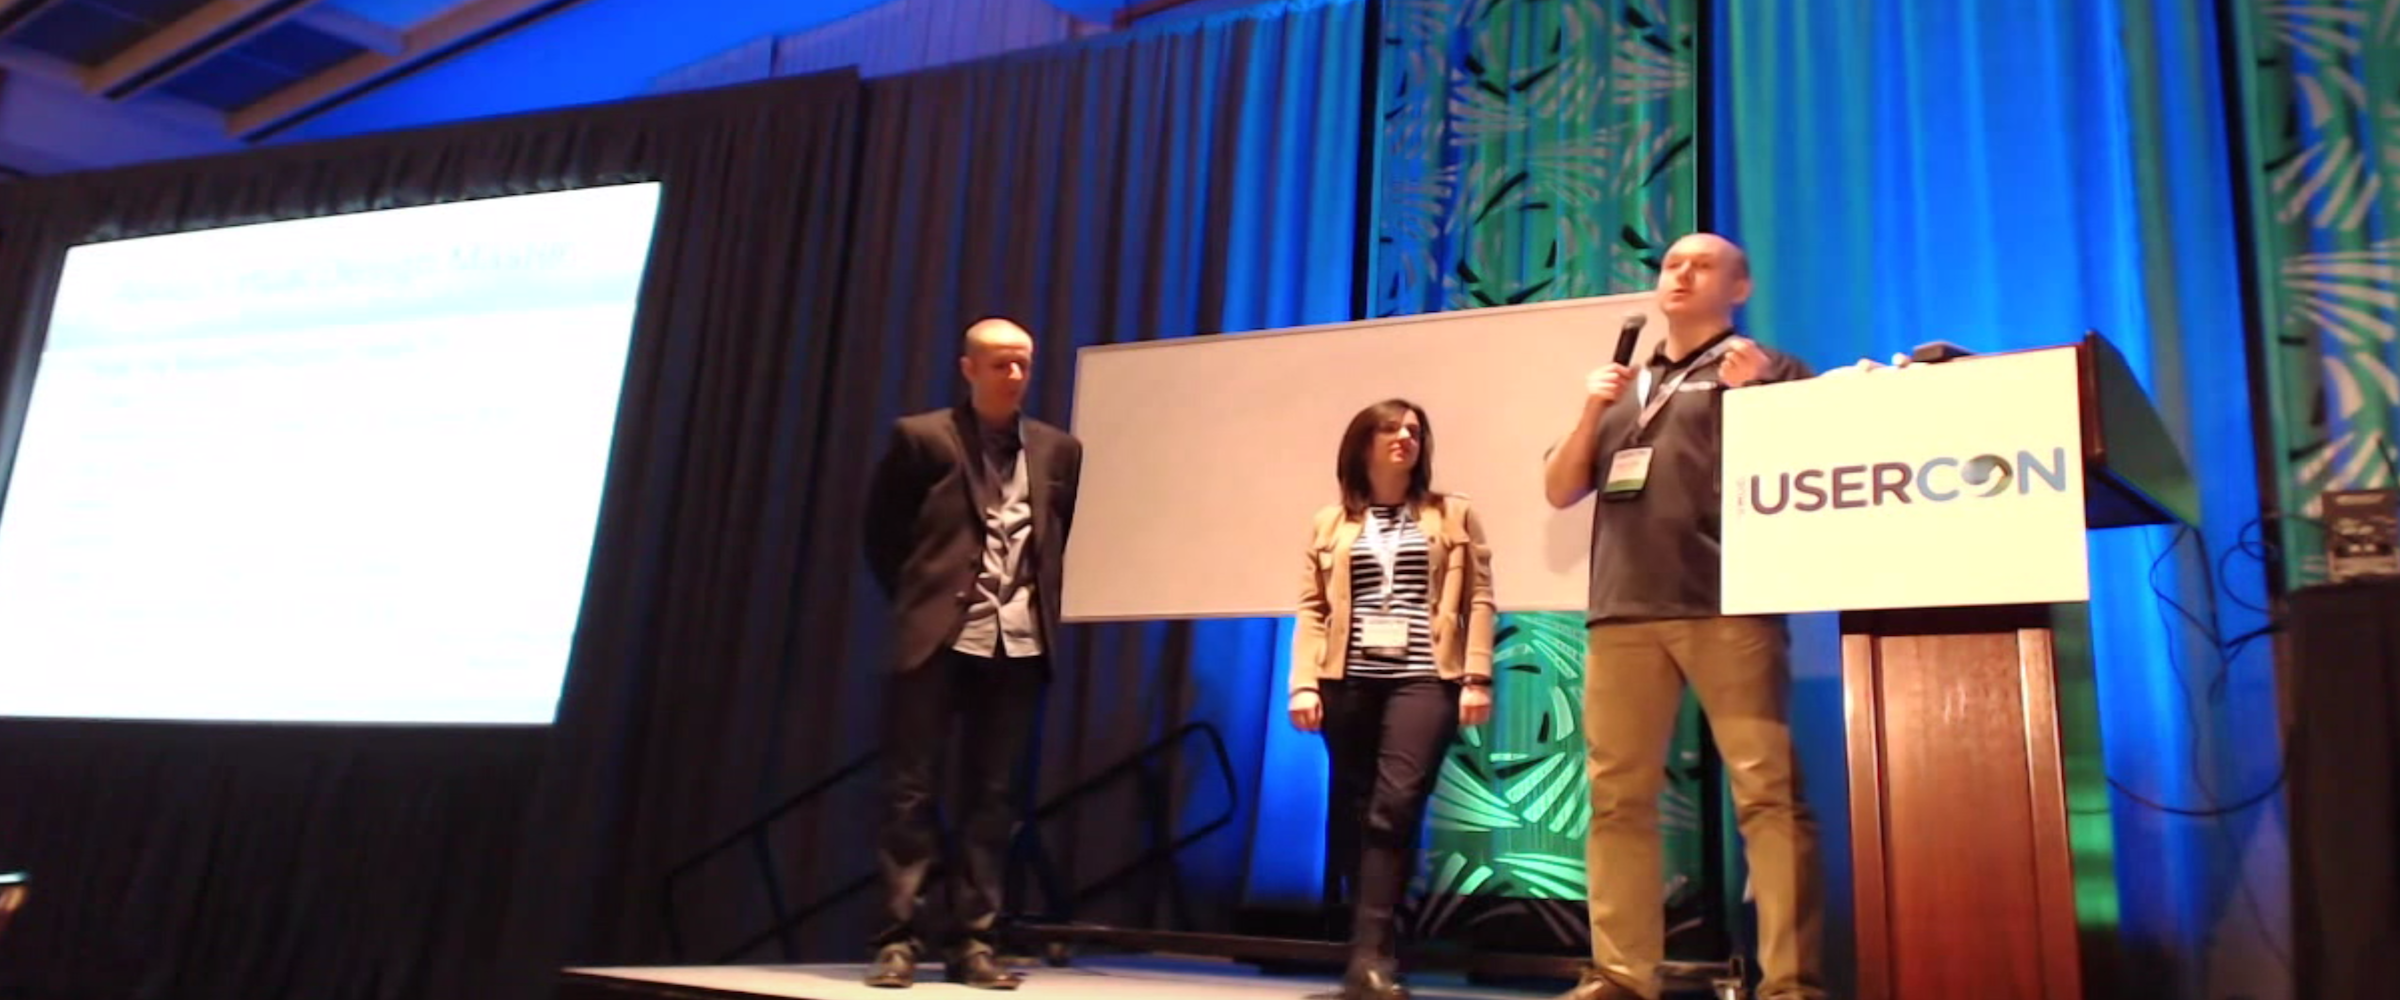
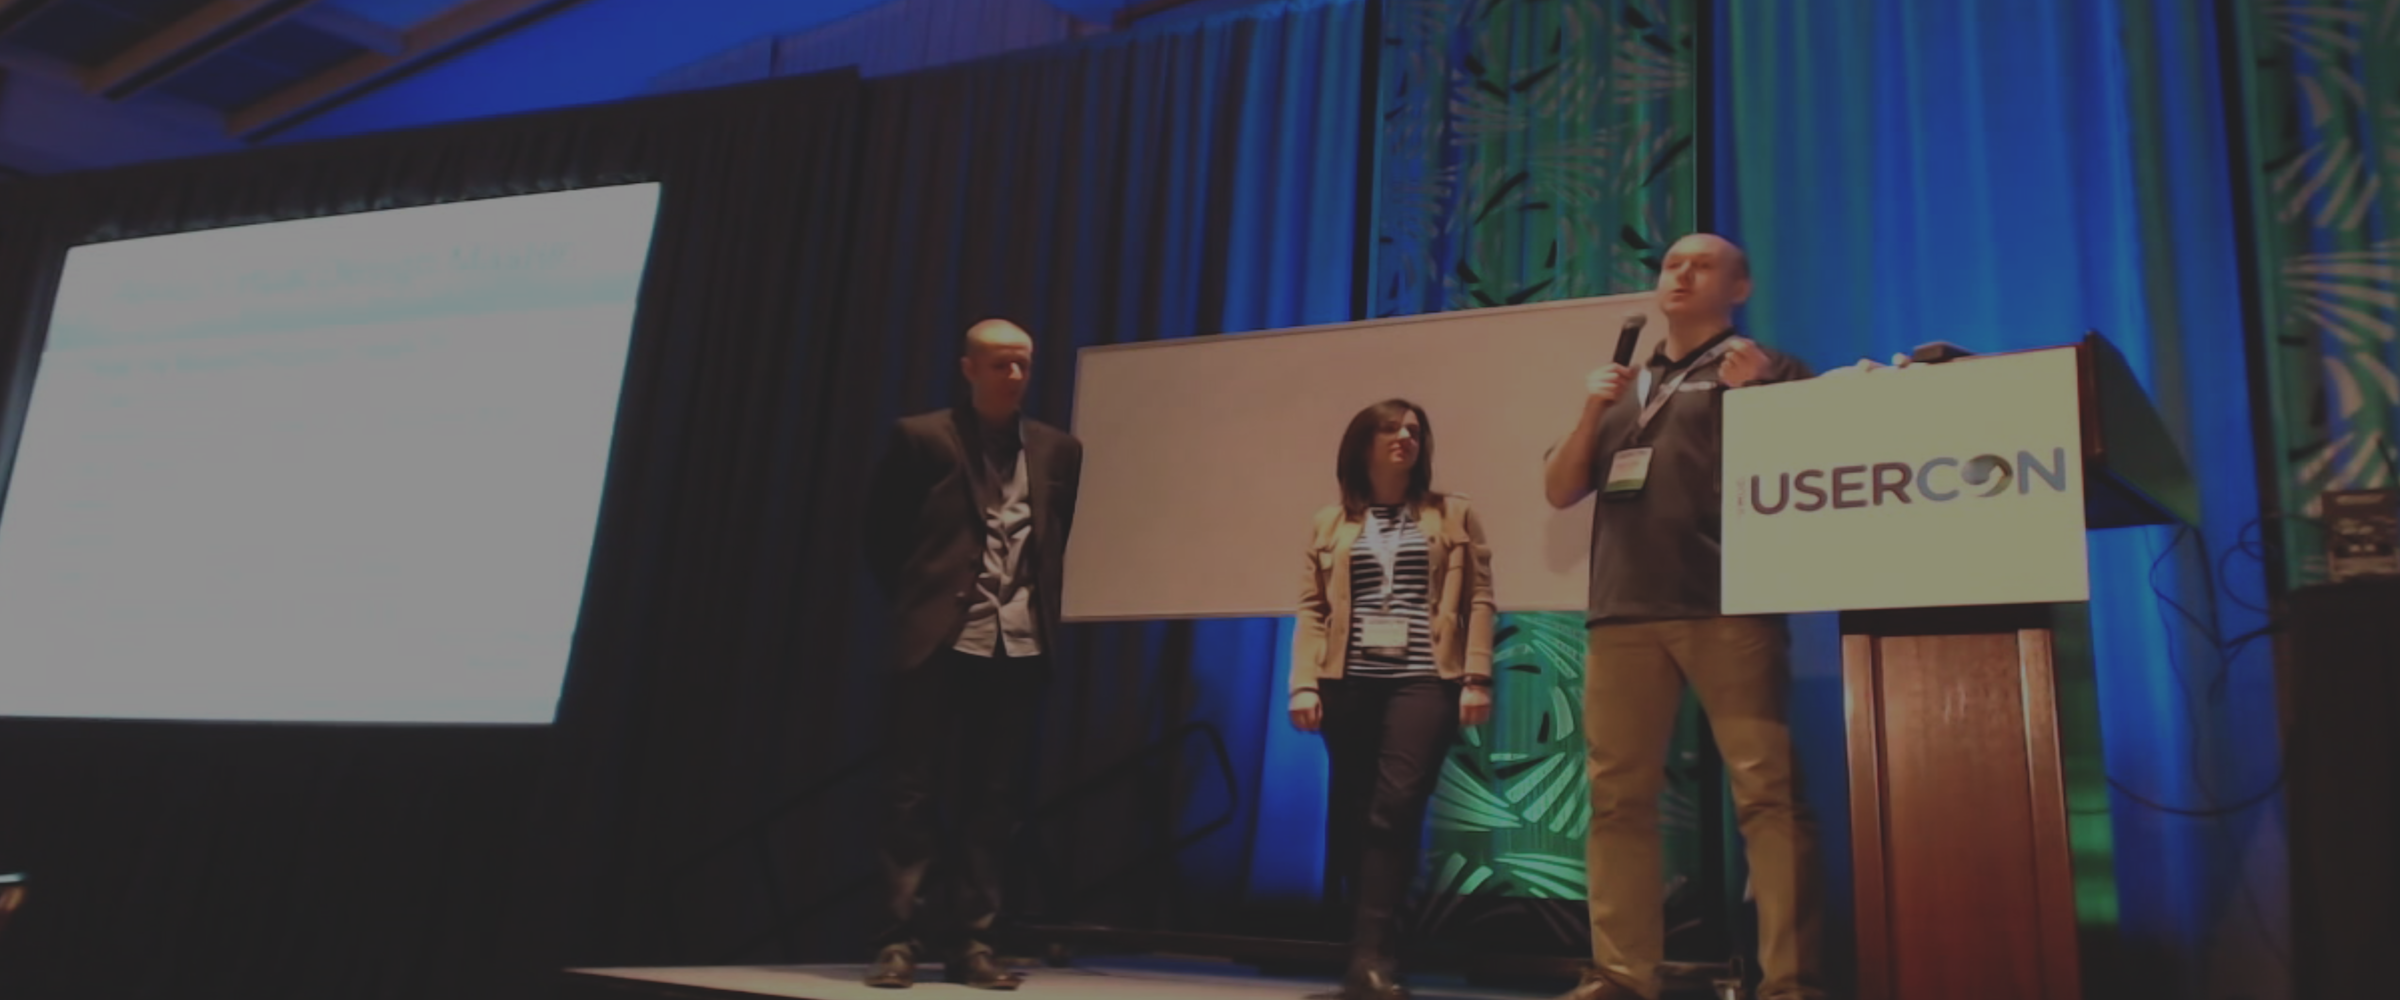
modify background team pic

diff --git a/index.html b/index.html
@@ -239,7 +239,7 @@ milestones:
 </div>
 
 
-<div class='full parallax' style='background-image: url(images/vdm-bg.png); color: #fff;'>
+<div class='full parallax' style='background-image: url(images/vdm-bg.jpg); color: #fff;'>
   <div class='row'>
     <div class='large-12 columns'>
       {% include section-header.html title="Virtual Design Master by the Numbers" color="#fff" %}
